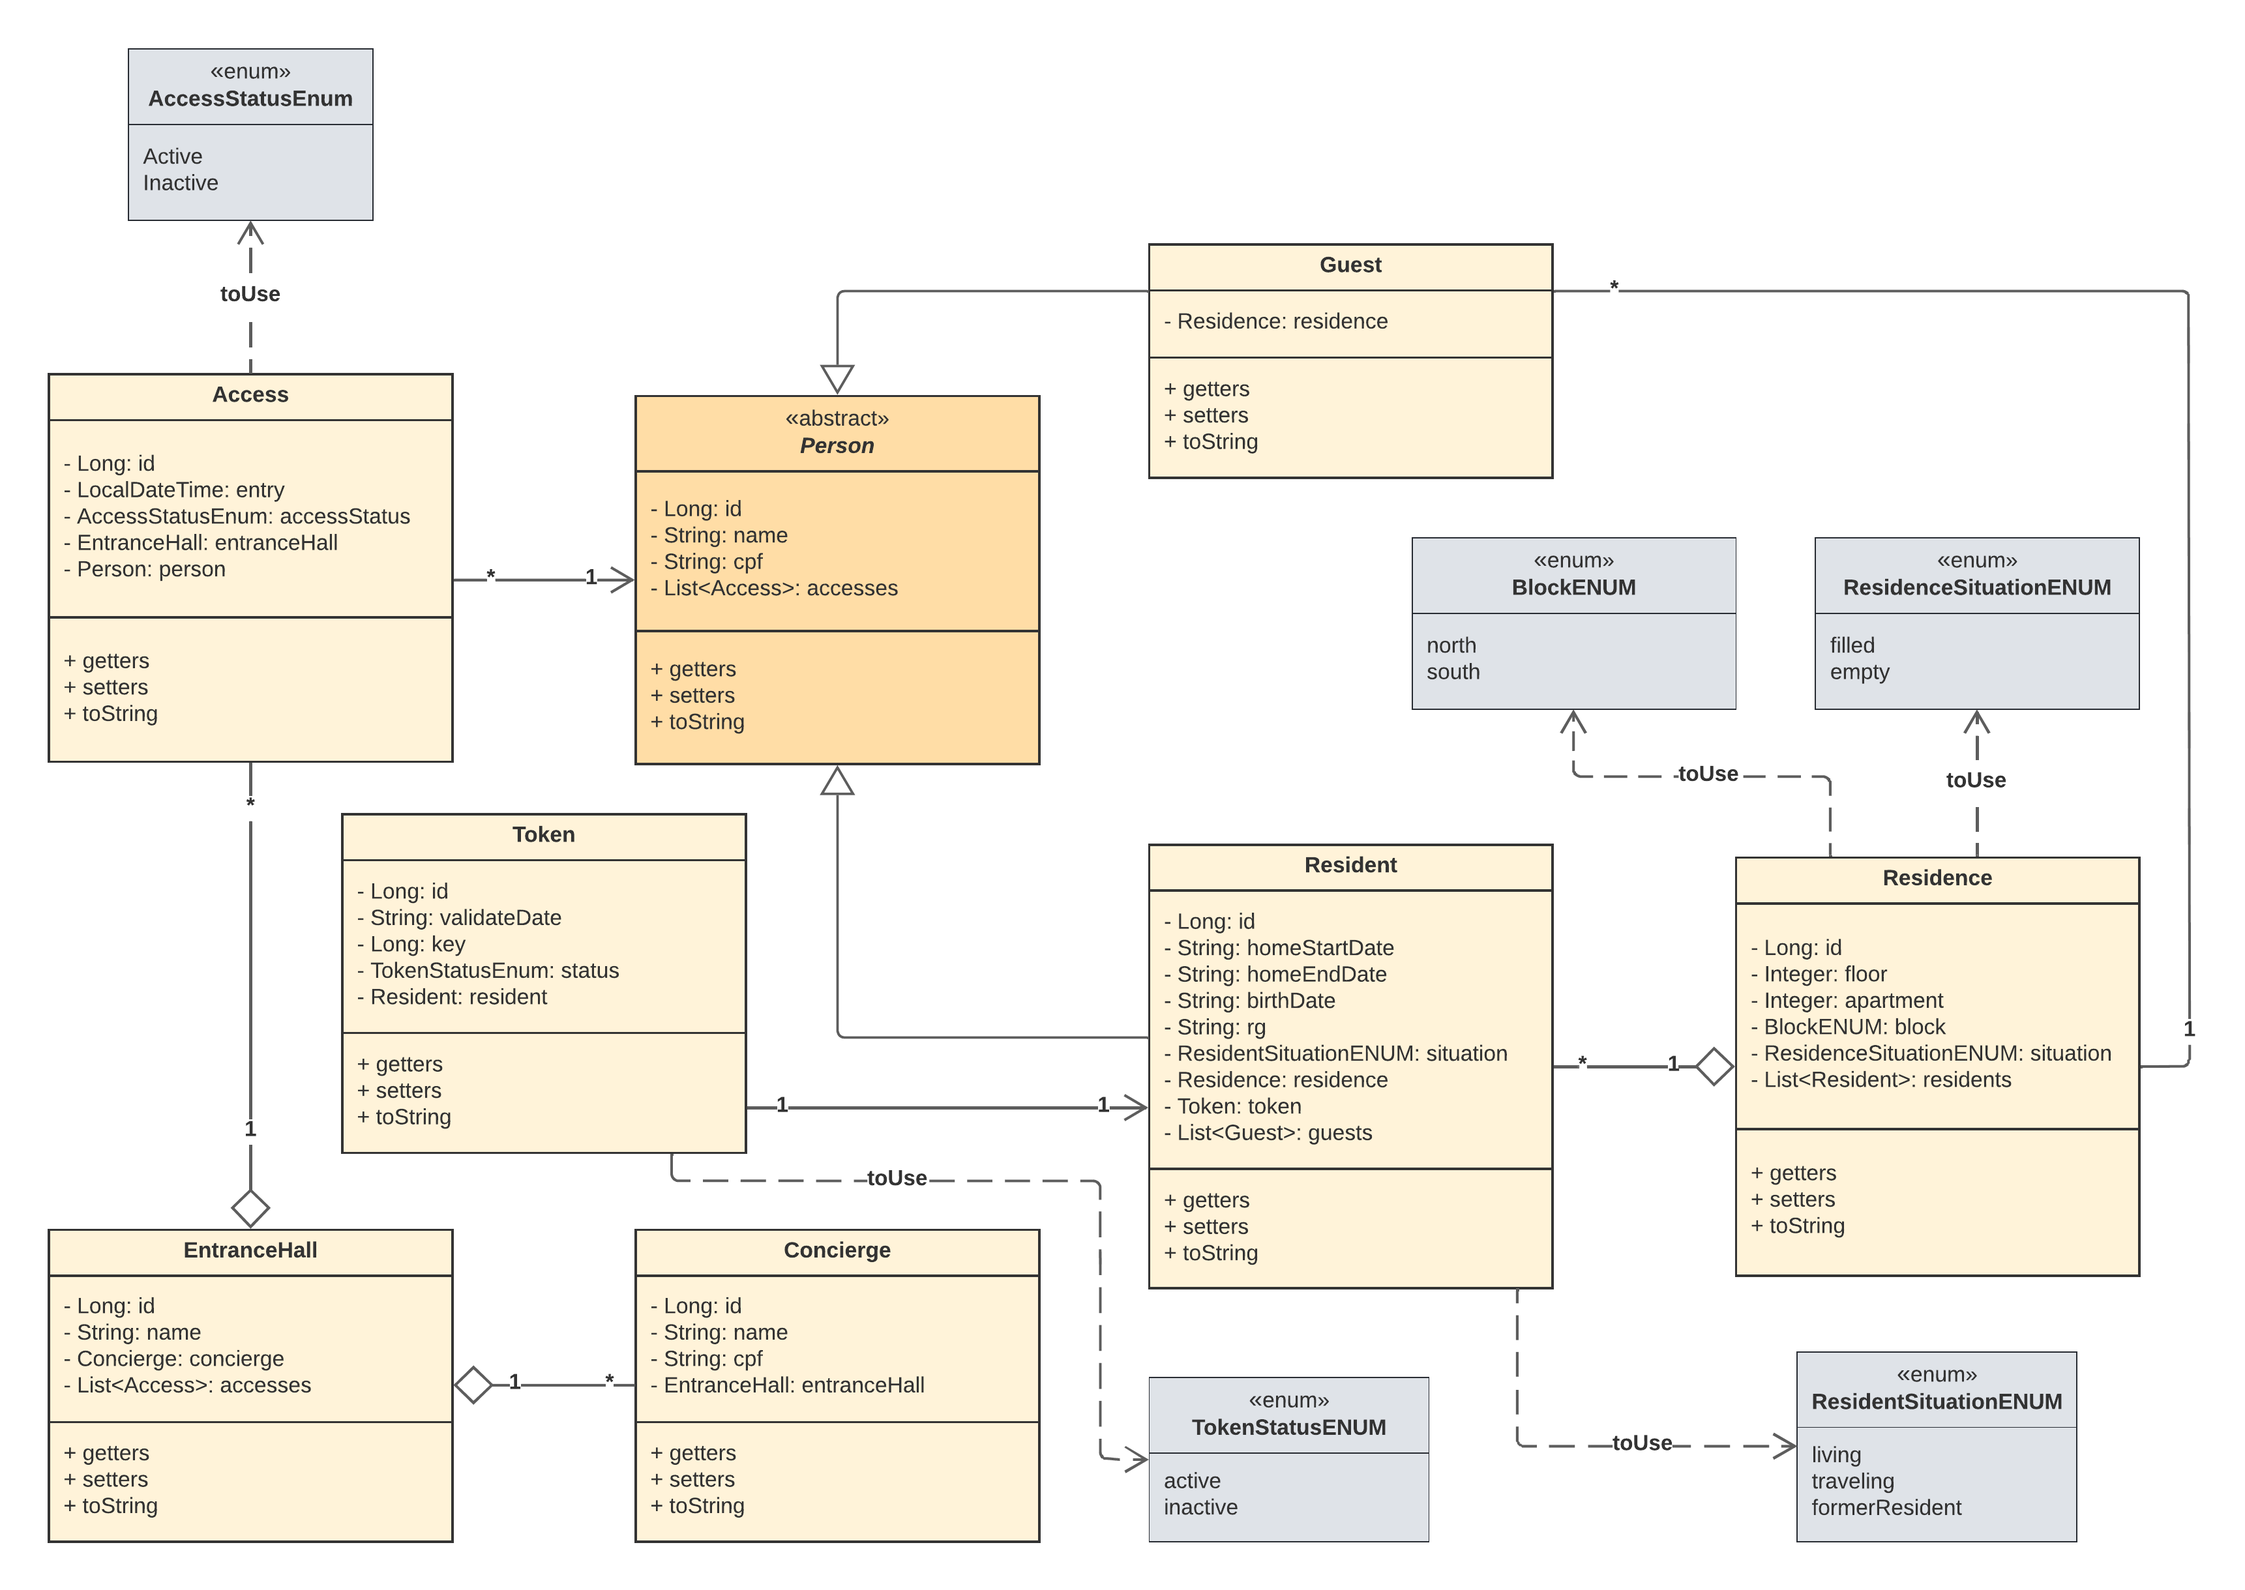
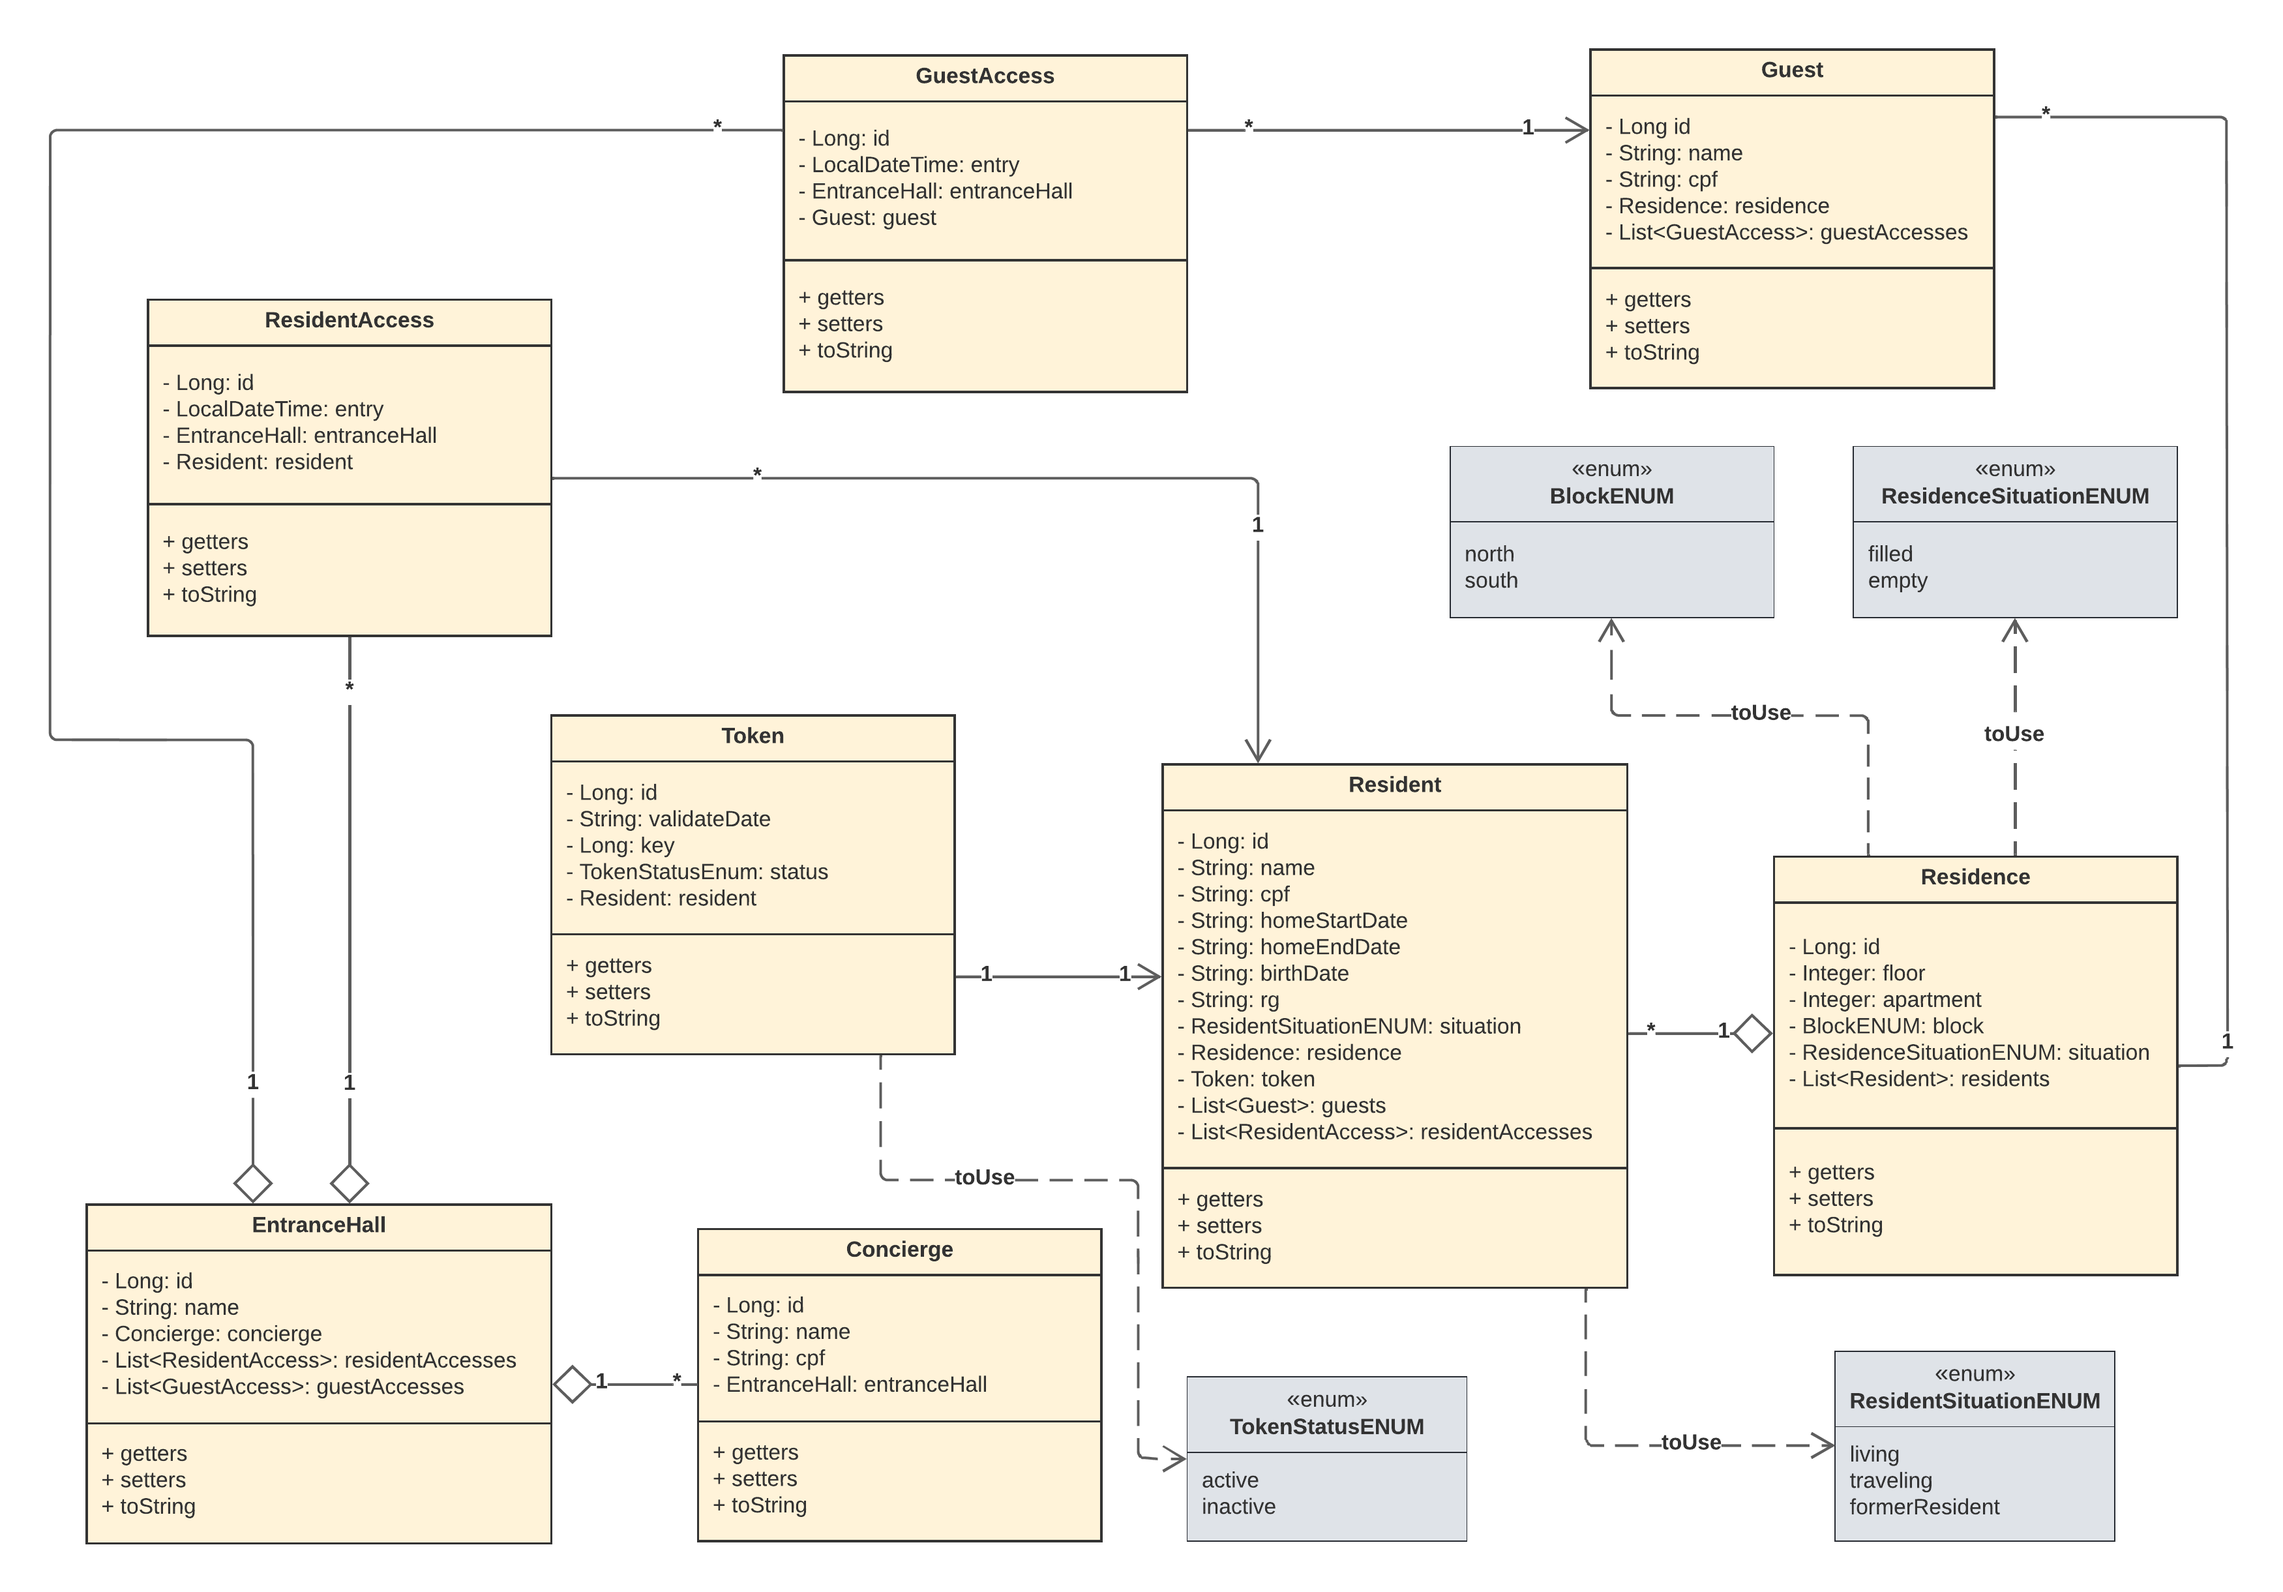
> I created all entities and enums of UML

diff --git a/backend/accesscontrol/src/main/java/br/com/homeaccesscontrol/models/entities/ResidentEntity.java b/backend/accesscontrol/src/main/java/br/com/homeaccesscontrol/models/entities/ResidentEntity.java
@@ -1,0 +1,57 @@
+package br.com.homeaccesscontrol.models.entities;
+
+import br.com.homeaccesscontrol.models.enums.ResidentSituationEnum;
+import lombok.*;
+
+import javax.persistence.*;
+import java.util.List;
+
+@Entity
+@Getter @Setter
+@AllArgsConstructor
+@NoArgsConstructor
+@ToString
+@EqualsAndHashCode
+@SequenceGenerator(allocationSize = 1, sequenceName = "sq_resident", name = "resident")
+@Table(name = "TB_RESIDENT")
+public class ResidentEntity {
+
+    @Id
+    @GeneratedValue(strategy = GenerationType.IDENTITY, generator = "resident")
+    @Column(name = "resident_id", nullable = false, unique = true, insertable = false, updatable = false)
+    private Integer id;
+
+    @Column(name = "resident_nm", nullable = false, length = 70)
+    private String name;
+
+    @Column(name = "resident_cpf", nullable = false, length = 14, unique = true)
+    private String cpf;
+
+    @Column(name = "resident_startDate", nullable = false, length = 10)
+    private String homeStartDate;
+
+    @Column(name = "resident_endDate", length = 10)
+    private String homeEndDate;
+
+    @Column(name = "resident_birthDate", nullable = false, length = 10)
+    private String birthDate;
+
+    @Column(name = "resident_rg", nullable = false, length = 12, unique = true)
+    private String rg;
+
+    @Enumerated(EnumType.STRING)
+    @Column(name = "resident_situation")
+    private ResidentSituationEnum residentSituation;
+
+    @ManyToOne
+    @JoinColumn(name = "id_residence")
+    private ResidenceEntity residence;
+
+    @OneToOne(cascade = CascadeType.ALL)
+    @JoinColumn(name = "token_id", referencedColumnName = "id")
+    private TokenEntity token;
+
+    @OneToMany(cascade = CascadeType.ALL, fetch = FetchType.LAZY)
+    private List<ResidentAccessEntity> residentAccesses;
+
+}

diff --git a/backend/accesscontrol/src/main/java/br/com/homeaccesscontrol/models/entities/ResidenceEntity.java b/backend/accesscontrol/src/main/java/br/com/homeaccesscontrol/models/entities/ResidenceEntity.java
@@ -1,0 +1,45 @@
+package br.com.homeaccesscontrol.models.entities;
+
+import br.com.homeaccesscontrol.models.enums.BlockEnum;
+import br.com.homeaccesscontrol.models.enums.ResidenceSituationEnum;
+import lombok.*;
+
+import javax.persistence.*;
+import java.util.List;
+
+@Entity
+@Getter @Setter
+@AllArgsConstructor
+@NoArgsConstructor
+@ToString
+@EqualsAndHashCode
+@SequenceGenerator(allocationSize = 1, sequenceName = "sq_residence", name = "residence")
+@Table(name = "TB_RESIDENCE")
+public class ResidenceEntity {
+
+    @Id
+    @GeneratedValue(strategy = GenerationType.IDENTITY, generator = "residence")
+    @Column(name = "residence_id", nullable = false, updatable = false, insertable = false, unique = true)
+    private Long id;
+
+    @Column(name = "residence_floor")
+    private Integer floor;
+
+    @Column(name = "residence_number", unique = true, nullable = false)
+    private Integer number;
+
+    @Enumerated(EnumType.STRING)
+    @Column(name = "residence_block")
+    private BlockEnum block;
+
+    @Enumerated(EnumType.STRING)
+    @Column(name = "residence_situation")
+    private ResidenceSituationEnum residenceSituation;
+
+    @OneToMany(cascade = CascadeType.ALL, fetch = FetchType.LAZY)
+    private List<ResidentEntity> residents;
+
+    @OneToMany(cascade = CascadeType.ALL, fetch = FetchType.LAZY)
+    private List<GuestEntity> guests;
+
+}

diff --git a/backend/accesscontrol/src/main/java/br/com/homeaccesscontrol/models/entities/EntranceHall.java b/backend/accesscontrol/src/main/java/br/com/homeaccesscontrol/models/entities/EntranceHall.java
@@ -1,0 +1,36 @@
+package br.com.homeaccesscontrol.models.entities;
+
+import lombok.*;
+
+import javax.persistence.*;
+import java.util.List;
+
+@Entity
+@Getter @Setter
+@AllArgsConstructor
+@NoArgsConstructor
+@ToString
+@EqualsAndHashCode
+@SequenceGenerator(allocationSize = 1, sequenceName = "sq_entrance", name = "entrance")
+@Table(name = "TB_ENTRANCEHALL")
+public class EntranceHall {
+
+    @Id
+    @GeneratedValue(strategy = GenerationType.IDENTITY, generator = "entrance")
+    @Column(name = "entrance_id", nullable = false, insertable = false, updatable = false, unique = true)
+    private Long id;
+
+    @Column(name = "entrance_nm", nullable = false, length = 30)
+    private String name;
+
+    @OneToOne(cascade = CascadeType.ALL)
+    @JoinColumn(name = "concierge_id", referencedColumnName = "id")
+    private ConciergeEntity concierge;
+
+    @OneToMany(cascade = CascadeType.ALL, fetch = FetchType.LAZY)
+    private List<ResidentAccessEntity> residentAccesses;
+
+    @OneToMany(cascade = CascadeType.ALL, fetch = FetchType.LAZY)
+    private List<GuestAccessEntity> guestAccesses;
+
+}

diff --git a/backend/accesscontrol/src/main/java/br/com/homeaccesscontrol/models/entities/TokenEntity.java b/backend/accesscontrol/src/main/java/br/com/homeaccesscontrol/models/entities/TokenEntity.java
@@ -1,0 +1,35 @@
+package br.com.homeaccesscontrol.models.entities;
+
+import br.com.homeaccesscontrol.models.enums.TokenStatusEnum;
+import lombok.*;
+
+import javax.persistence.*;
+
+@Entity
+@Getter @Setter
+@AllArgsConstructor
+@NoArgsConstructor
+@ToString
+@EqualsAndHashCode
+@SequenceGenerator(allocationSize = 1, sequenceName = "sq_token", name = "token")
+@Table(name = "TB_TOKEN")
+public class TokenEntity {
+
+    @Id
+    @GeneratedValue(strategy = GenerationType.IDENTITY, generator = "token")
+    @Column(name = "token_id", unique = true, nullable = false, updatable = false, insertable = false)
+    private Long id;
+
+    @Column(name = "token_validateDate", nullable = false)
+    private String validateDate;
+
+    @Column(name = "token_key", nullable = false)
+    private Long key;
+
+    @Enumerated(EnumType.STRING)
+    @Column(name = "token_status", nullable = false)
+    private TokenStatusEnum status;
+
+    @OneToOne(mappedBy = "token")
+    private ResidentEntity resident;
+}

diff --git a/backend/accesscontrol/src/main/java/br/com/homeaccesscontrol/models/entities/ResidentAccessEntity.java b/backend/accesscontrol/src/main/java/br/com/homeaccesscontrol/models/entities/ResidentAccessEntity.java
@@ -1,0 +1,35 @@
+package br.com.homeaccesscontrol.models.entities;
+
+import lombok.*;
+
+import javax.persistence.*;
+import java.time.LocalDateTime;
+
+@Entity
+@Getter
+@Setter
+@AllArgsConstructor
+@NoArgsConstructor
+@ToString
+@EqualsAndHashCode
+@SequenceGenerator(allocationSize = 1, sequenceName = "sq_residentAccess", name = "residentAccess")
+@Table(name = "TB_RESIDENTACCESS")
+public class ResidentAccessEntity {
+
+    @Id
+    @GeneratedValue(strategy = GenerationType.IDENTITY, generator = "residentAccess")
+    @Column(name = "residentAccess_id", nullable = false, unique = true, updatable = false, insertable = false)
+    private Long id;
+
+    @Column(name = "residentAccess_date", nullable = false)
+    private LocalDateTime date;
+
+    @ManyToOne
+    @JoinColumn(name = "id_entrance")
+    private EntranceHall entranceHall;
+
+    @ManyToOne
+    @JoinColumn(name = "id_resident")
+    private ResidentEntity resident;
+
+}

diff --git a/backend/accesscontrol/src/main/java/br/com/homeaccesscontrol/models/entities/GuestEntity.java b/backend/accesscontrol/src/main/java/br/com/homeaccesscontrol/models/entities/GuestEntity.java
@@ -1,0 +1,35 @@
+package br.com.homeaccesscontrol.models.entities;
+
+import lombok.*;
+
+import javax.persistence.*;
+import java.util.List;
+
+@Entity
+@Getter @Setter
+@AllArgsConstructor
+@NoArgsConstructor
+@ToString
+@EqualsAndHashCode
+@SequenceGenerator(allocationSize = 1, sequenceName = "sq_guest", name = "guest")
+@Table(name = "TB_GUEST")
+public class GuestEntity{
+
+    @Id
+    @GeneratedValue(strategy = GenerationType.IDENTITY, generator = "guest")
+    @Column(name = "guest_id", unique = true, nullable = false, updatable = false, insertable = false)
+    private Long id;
+
+    @Column(name = "guest_nm")
+    private String name;
+
+    @Column(name = "guest_cpf", unique = true)
+    private String cpf;
+
+    @Column(name = "guest_residence", nullable = false)
+    private ResidenceEntity residence;
+
+    @OneToMany(cascade = CascadeType.ALL, fetch = FetchType.LAZY)
+    private List<GuestAccessEntity> accesses;
+
+}

diff --git a/backend/accesscontrol/src/main/java/br/com/homeaccesscontrol/models/entities/GuestAccessEntity.java b/backend/accesscontrol/src/main/java/br/com/homeaccesscontrol/models/entities/GuestAccessEntity.java
@@ -1,0 +1,34 @@
+package br.com.homeaccesscontrol.models.entities;
+
+import lombok.*;
+
+import javax.persistence.*;
+import java.time.LocalDateTime;
+
+@Entity
+@Getter @Setter
+@AllArgsConstructor
+@NoArgsConstructor
+@ToString
+@EqualsAndHashCode
+@SequenceGenerator(allocationSize = 1, sequenceName = "sq_guestAccess", name = "guestAccess")
+@Table(name = "TB_GUESTACCESS")
+public class GuestAccessEntity {
+
+    @Id
+    @GeneratedValue(strategy = GenerationType.IDENTITY, generator = "guestAccess")
+    @Column(name = "guestAccess_id", nullable = false, unique = true, updatable = false, insertable = false)
+    private Long id;
+
+    @Column(name = "guestAccess_date", nullable = false)
+    private LocalDateTime date;
+
+    @ManyToOne
+    @JoinColumn(name = "id_entrance")
+    private EntranceHall entranceHall;
+
+    @ManyToOne
+    @JoinColumn(name = "id_guest")
+    private GuestEntity guest;
+
+}

diff --git a/backend/accesscontrol/src/main/java/br/com/homeaccesscontrol/models/entities/ConciergeEntity.java b/backend/accesscontrol/src/main/java/br/com/homeaccesscontrol/models/entities/ConciergeEntity.java
@@ -1,0 +1,31 @@
+package br.com.homeaccesscontrol.models.entities;
+
+import lombok.*;
+
+import javax.persistence.*;
+
+@Entity
+@Getter @Setter
+@AllArgsConstructor
+@NoArgsConstructor
+@ToString
+@EqualsAndHashCode
+@SequenceGenerator(allocationSize = 1, sequenceName = "sq_concierge", name = "concierge")
+@Table(name = "TB_CONCIERGE")
+public class ConciergeEntity {
+
+    @Id
+    @GeneratedValue(strategy = GenerationType.IDENTITY, generator = "concierge")
+    @Column(name = "concierge_id", nullable = false, unique = true, updatable = false, insertable = false)
+    private Long id;
+
+    @Column(name = "concierge_nm", nullable = false)
+    private String name;
+
+    @Column(name = "concierge_cpf", nullable = false)
+    private String cpf;
+
+    @OneToOne(mappedBy = "concierge")
+    private EntranceHall entranceHall;
+
+}

diff --git a/backend/accesscontrol/src/main/java/br/com/homeaccesscontrol/models/enums/ResidentSituationEnum.java b/backend/accesscontrol/src/main/java/br/com/homeaccesscontrol/models/enums/ResidentSituationEnum.java
@@ -1,0 +1,17 @@
+package br.com.homeaccesscontrol.models.enums;
+
+import lombok.AllArgsConstructor;
+import lombok.Getter;
+
+@Getter
+@AllArgsConstructor
+public enum ResidentSituationEnum {
+
+    LIVING(1, "Living"),
+    TRAVELING(2, "Traveling"),
+    FORMER_RESIDENT(3, "Former resident");
+
+    private final Integer code;
+    private final String desc;
+
+}

diff --git a/backend/accesscontrol/src/main/java/br/com/homeaccesscontrol/models/enums/BlockEnum.java b/backend/accesscontrol/src/main/java/br/com/homeaccesscontrol/models/enums/BlockEnum.java
@@ -1,0 +1,16 @@
+package br.com.homeaccesscontrol.models.enums;
+
+import lombok.AllArgsConstructor;
+import lombok.Getter;
+
+@Getter
+@AllArgsConstructor
+public enum BlockEnum {
+
+    BLOCK_NORTH(1, "Block North"),
+    BLOCK_SOUTH(2, "Block South");
+
+    private final Integer code;
+    private final String desc;
+
+}

diff --git a/backend/accesscontrol/src/main/java/br/com/homeaccesscontrol/models/enums/ResidenceSituationEnum.java b/backend/accesscontrol/src/main/java/br/com/homeaccesscontrol/models/enums/ResidenceSituationEnum.java
@@ -1,0 +1,16 @@
+package br.com.homeaccesscontrol.models.enums;
+
+import lombok.AllArgsConstructor;
+import lombok.Getter;
+
+@Getter
+@AllArgsConstructor
+public enum ResidenceSituationEnum {
+
+    FILLED(1, "Filled"),
+    EMPTY(2, "Empty");
+
+    private final Integer code;
+    private final String desc;
+
+}

diff --git a/backend/accesscontrol/src/main/java/br/com/homeaccesscontrol/models/enums/TokenStatusEnum.java b/backend/accesscontrol/src/main/java/br/com/homeaccesscontrol/models/enums/TokenStatusEnum.java
@@ -1,0 +1,16 @@
+package br.com.homeaccesscontrol.models.enums;
+
+import lombok.AllArgsConstructor;
+import lombok.Getter;
+
+@Getter
+@AllArgsConstructor
+public enum TokenStatusEnum {
+
+    ACTIVE(1, "Active"),
+    INACTIVE(2, "Inactive");
+
+    private final Integer code;
+    private final String desc;
+
+}
